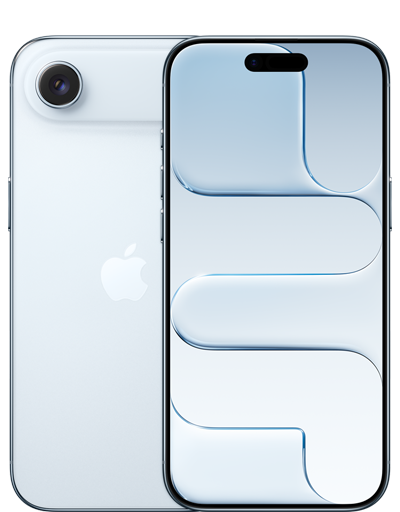
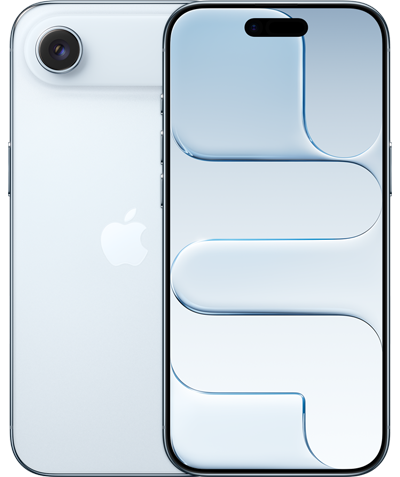
feat: Product hero section development

diff --git a/src/pages/Product/ProductPage.jsx b/src/pages/Product/ProductPage.jsx
@@ -1,14 +1,18 @@
+import BottomBar from "../../components/template/Product/BottomBar/BottomBar";
 import HeroSection from "../../components/template/Product/HeroSection/HeroSection";
 import Sidebar from "../../components/template/Product/SideBar/Sidebar";
 
 const ProductPage = () => {
   return (
-    <main className="container mt-10 flex">
-      <div>
-        <HeroSection />
-      </div>
-      <Sidebar />
-    </main>
+    <>
+      <main className="w-[95%] mx-auto mt-10 grid grid-cols-8 gap-4">
+        <section className="col-span-8 lg:col-span-6 *:dark:bg-primary-dark">
+          <HeroSection />
+        </section>
+        <Sidebar />
+      </main>
+      <BottomBar />
+    </>
   );
 };
 

diff --git a/src/components/template/Product/HeroSection/HeroSection.jsx b/src/components/template/Product/HeroSection/HeroSection.jsx
@@ -1,5 +1,19 @@
+import ProductColors from "./Fragments/ProductColors/ProductColors";
+import ProductFeaturs from "./Fragments/ProductFeatures";
+import ProductImage from "./Fragments/ProductImage/ProductImage";
+import ProductTitle from "./Fragments/ProductTitle/ProductTitle";
+
 const HeroSection = () => {
-  return <div className="primary-border">HeroSection</div>;
+  return (
+    <div className="box-style p-8! grid grid-cols-8 gap-4">
+      <ProductImage />
+      <div className="mt-2 space-y-4 col-span-8 md:col-span-5">
+        <ProductTitle />
+        <ProductColors />
+        <ProductFeaturs />
+      </div>
+    </div>
+  );
 };
 
 export default HeroSection;

diff --git a/src/components/template/Product/SideBar/Fragments/Consulting.jsx b/src/components/template/Product/SideBar/Fragments/Consulting.jsx
@@ -2,7 +2,7 @@ import { FiPhoneCall } from "react-icons/fi";
 
 const Consulting = () => {
   return (
-    <div className="flex-itc justify-between mt-4 text-gray-500 dark:text-gray-400">
+    <div className="flex-itc justify-between text-gray-500 dark:text-gray-400">
       <div className="text-sm">
         <p>برای مشاوره خرید این کالا با شماره:</p>
         <span className="mt-1 block"> 021-2122211</span>

diff --git a/src/components/template/Product/BottomBar/BottomBar.jsx b/src/components/template/Product/BottomBar/BottomBar.jsx
@@ -1,0 +1,15 @@
+import Price from "../SideBar/Fragments/Price";
+import AddToCart from "./Fragments/AddToCart";
+
+const BottomBar = () => {
+  return (
+    <div className="lg:hidden fixed bottom-0 w-full primary-border-t bg-gray-100 dark:bg-dark-body">
+      <div className="container py-2 flex-between items-center gap-2">
+        <AddToCart />
+        <Price />
+      </div>
+    </div>
+  );
+};
+
+export default BottomBar;

diff --git a/src/components/template/Product/HeroSection/Fragments/ProductTitle/ProductTitle.jsx b/src/components/template/Product/HeroSection/Fragments/ProductTitle/ProductTitle.jsx
@@ -1,0 +1,13 @@
+const ProductTitle = () => {
+  return (
+    <div className="space-y-3">
+      <h3 className="text-xl font-bold">گوشی موبایل اپل مدل iPhone 17 Air</h3>
+      <p className="text-style text-sm">
+        Galaxy A06 4GB 64GB 2Sim Mediatek MT6769 Helio G85 (12 نانومتری) 50
+        مگاپیکسل 5000mAh 6.7 Inch Android 14
+      </p>
+    </div>
+  );
+};
+
+export default ProductTitle;

diff --git a/src/components/template/Product/HeroSection/Fragments/ProductColors/ColorOption.jsx b/src/components/template/Product/HeroSection/Fragments/ProductColors/ColorOption.jsx
@@ -1,0 +1,12 @@
+const ColorOption = ({  lable = "مشکی" }) => {
+  return (
+    <div className="box-style p-2! flex-itc gap-2 cursor-pointer">
+      <div className="border primary-border bg-white dark:bg-gray-700 size-6 flex-center rounded">
+        <div className={`bg-black size-4 rounded`}></div>
+      </div>
+      <div className="text-sm">{lable}</div>
+    </div>
+  );
+};
+
+export default ColorOption;

diff --git a/src/components/template/Product/HeroSection/Fragments/ProductColors/ProductColors.jsx b/src/components/template/Product/HeroSection/Fragments/ProductColors/ProductColors.jsx
@@ -1,0 +1,16 @@
+import ColorOption from "./ColorOption";
+
+const ProductColors = () => {
+  return (
+    <div>
+      <span className="text-xs text-style font-bold">رنگ بندی:</span>
+      <div className="grid grid-cols-3 gap-2 mt-2">
+        {Array.from({ length: 5 }).map(() => (
+          <ColorOption color="#000" />
+        ))}
+      </div>
+    </div>
+  );
+};
+
+export default ProductColors;

diff --git a/src/components/template/Product/SideBar/Sidebar.jsx b/src/components/template/Product/SideBar/Sidebar.jsx
@@ -5,7 +5,7 @@ import Consulting from "./Fragments/Consulting";
 
 const Sidebar = () => {
   return (
-    <div className="fixed left-[6%] primary-border hidden md:block w-70 box-style bg-white dark:bg-primary-dark">
+    <div className="sticky col-span-2 primary-border hidden lg:block box-style bg-white h-fit dark:bg-primary-dark space-y-4">
       <MiniProduct />
       <Price />
       <AddToCart />

diff --git a/src/components/common/ProductCard/ProductCard.jsx b/src/components/common/ProductCard/ProductCard.jsx
@@ -4,7 +4,7 @@ const ProductCard = (product) => {
   return (
     <Link
       to="/product"
-      className="primary-border rounded-lg overflow-hidden px-3 pt-1 pb-3 hover:shadow-lg dark:bg-primary-dark duration-200 hover:scale-103"
+      className="box-style overflow-hidden hover:shadow-lg dark:bg-primary-dark duration-200 hover:scale-103"
     >
       <div className="w-30 mx-auto">
         <img

diff --git a/src/components/template/Product/HeroSection/Fragments/ProductFeatures/index.jsx b/src/components/template/Product/HeroSection/Fragments/ProductFeatures/index.jsx
@@ -1,0 +1,16 @@
+import Option from "./Option";
+
+const ProductFeaturs = () => {
+  return (
+    <div>
+      <span className="text-xs text-style font-bold">ویژگی ها:</span>
+      <div className="grid grid-cols-3 gap-2 mt-2">
+        {Array.from({ length: 5 }).map(() => (
+          <Option />
+        ))}
+      </div>
+    </div>
+  );
+};
+
+export default ProductFeaturs;

diff --git a/src/components/template/Product/SideBar/Fragments/AddToCart.jsx b/src/components/template/Product/SideBar/Fragments/AddToCart.jsx
@@ -1,6 +1,6 @@
 const AddToCart = () => {
   return (
-    <button className="mx-auto w-full block mt-4 bg-gradient text-white p-2 rounded-lg cursor-pointer hover:opacity-85 duration-200">
+    <button className="mx-auto w-full block bg-gradient text-white p-2 rounded-lg cursor-pointer hover:opacity-85 duration-200">
       افزودن به سبد خرید
     </button>
   );

diff --git a/src/components/template/Product/HeroSection/Fragments/ProductImage/ProductImage.jsx b/src/components/template/Product/HeroSection/Fragments/ProductImage/ProductImage.jsx
@@ -1,0 +1,15 @@
+import { DEFAULT_PRODUCT_IMAGE } from "../../../../../../lib/constants";
+
+const ProductImage = () => {
+  return (
+    <div className="col-span-8 md:col-span-3 mx-auto">
+      <img
+        className=""
+        src={DEFAULT_PRODUCT_IMAGE}
+        alt="iPhone 17 Air"
+      />
+    </div>
+  );
+};
+
+export default ProductImage;
